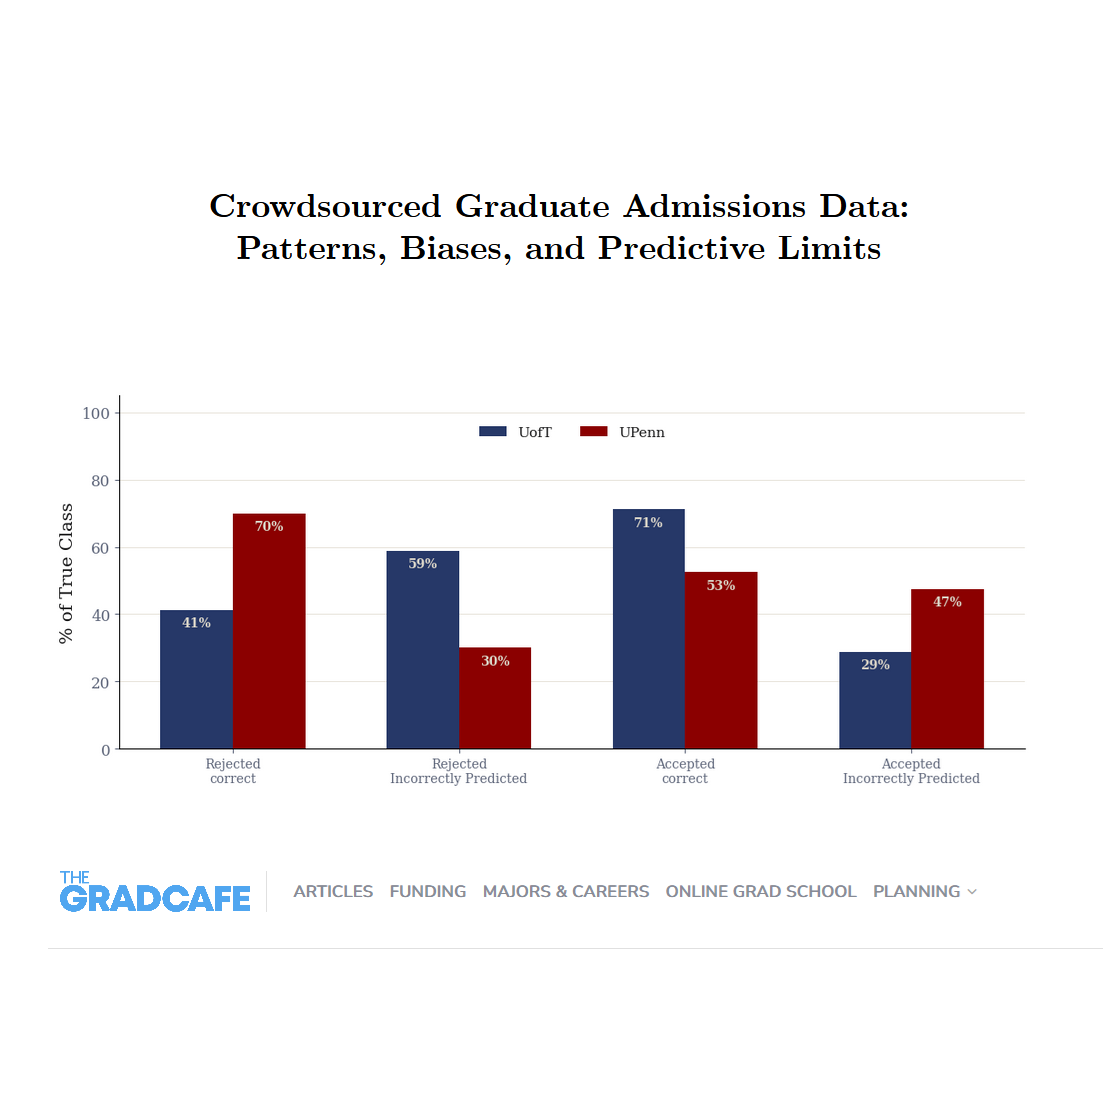
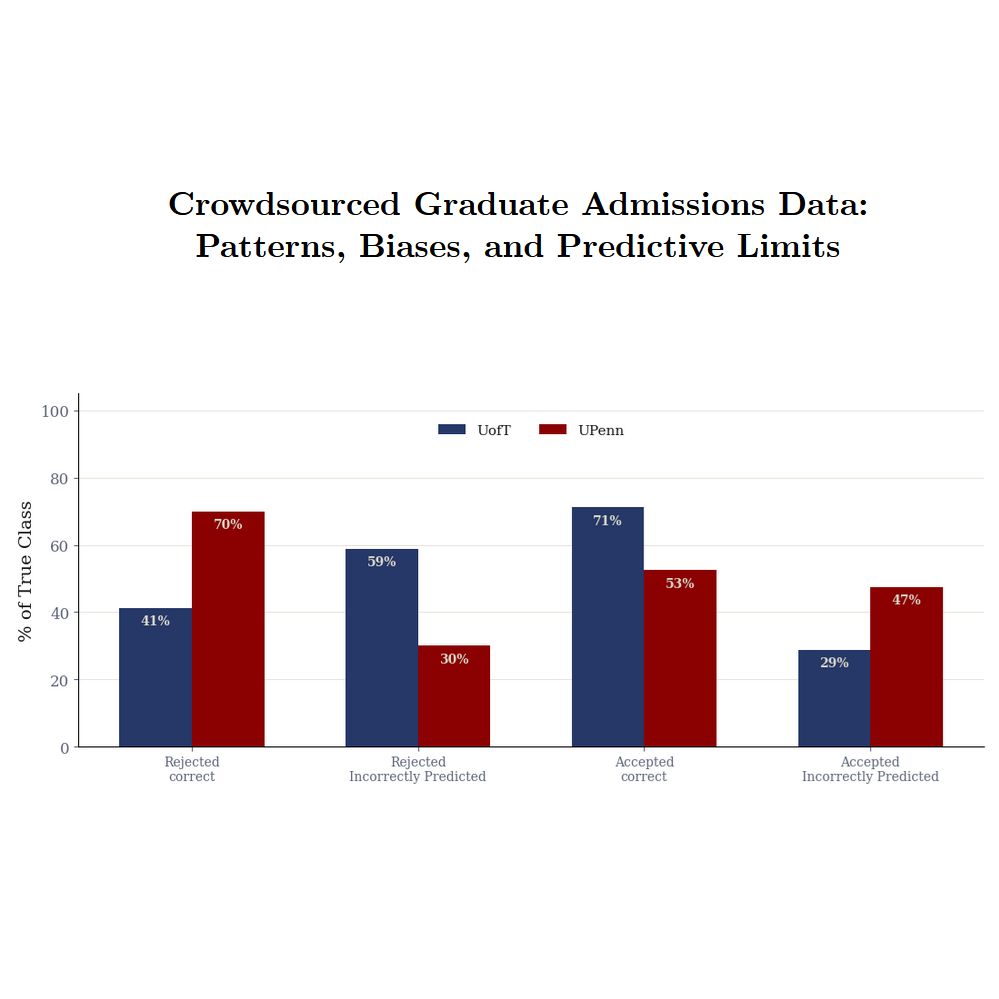
fix typos

Changed region(s): [[0.0, 0.3724, 0.962, 0.8378], [0.1552, 0.1552, 0.8689, 0.2793], [0.4344, 0.3724, 0.4965, 0.4344]]

diff --git a/gradcafe_analysis/web.html b/gradcafe_analysis/web.html
@@ -2241,17 +2241,16 @@ display(HTML(cases_table[['Profile', 'GradCafe P(admit)', 'Adjusted P(admit)']].
             to 21.4%. A GPA of 3.92 places Applicant A in the 3.75–4.0 bin,
             which Query 5 showed has the highest acceptance rate in the GradCafe
             sample at both schools (although not by a lot). Even there, the
-            adjusted probability sits below one-in-five at UofT and below
-            one-in-eight at UPenn. This is consistent with what a 33% and 21%
-            base rate implies for any individual: the vast majority of
-            applicants at any GPA level are rejected, and GPA alone cannot
-            overcome that.
+            adjusted probability sits below 40% at UofT and below 33% at UPenn.
+            This is consistent with what a 33% and 21% base rate implies for any
+            individual: the vast majority of applicants at any GPA level are
+            rejected, and GPA alone cannot overcome that.
           </p>
           <p>
             Applicant B's adjusted probabilities are 20.8% at UofT and 15.7% at
             UPenn. The GRE submission does not help &mdash; the model assigns it
             a negative weight. At a 3.44 GPA with a GRE score, Applicant B falls
-            below a one-in-ten chance at UofT and below one-in-twenty at UPenn
+            below a one-in-five chance at UofT and below one-in-seven at UPenn
             once the prior is corrected.
           </p>
           <p>
@@ -2269,7 +2268,7 @@ display(HTML(cases_table[['Profile', 'GradCafe P(admit)', 'Adjusted P(admit)']].
             associated with higher acceptance rates across GPA bins at both
             schools, and the logistic regression assigns a GPA odds ratio of
             1.22 (at UofT) and 1.29 (at UPenn). The relationship is real but
-            modest. The KDE distributions show GPA has a positive but weak
+            modest. The KDE distributions also show GPA has a positive but weak
             association with admission, with substantial overlap between
             accepted and rejected applicants even at high GPA levels.
           </p>
